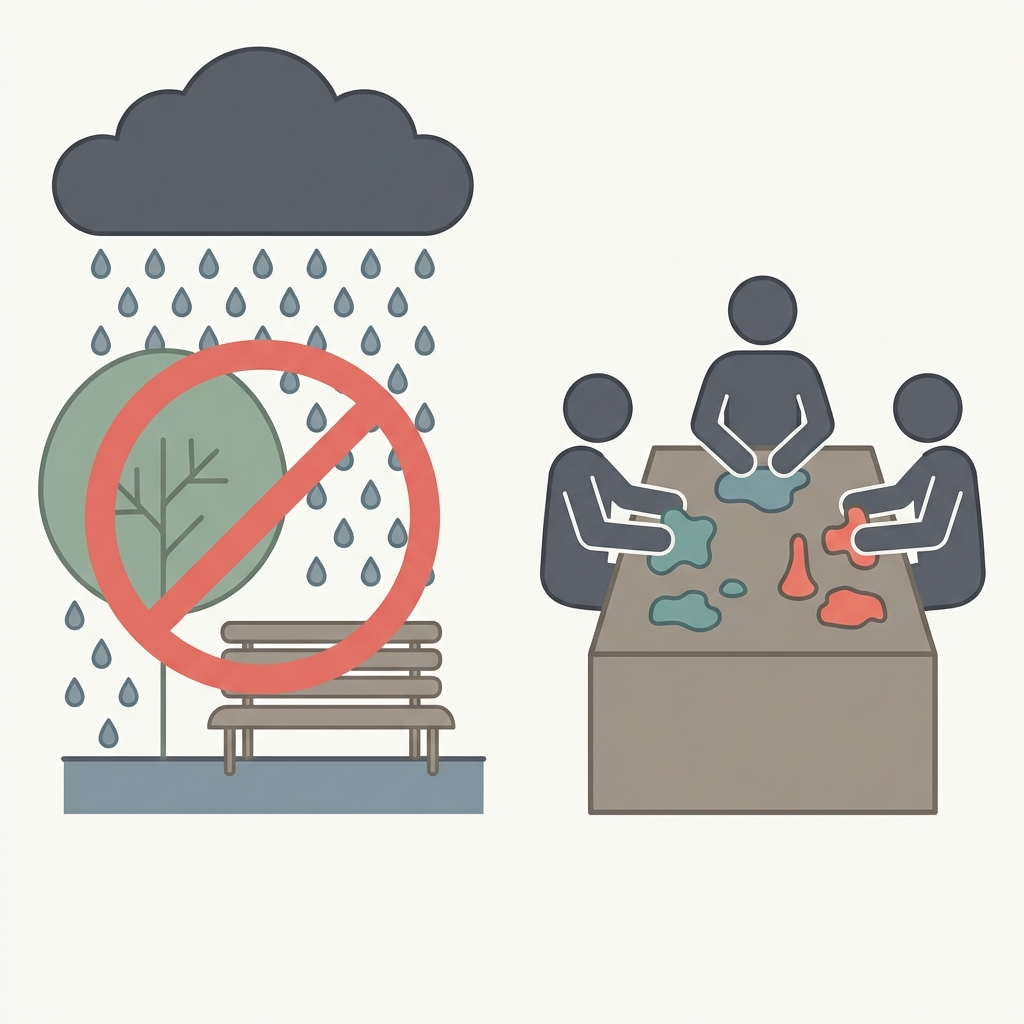
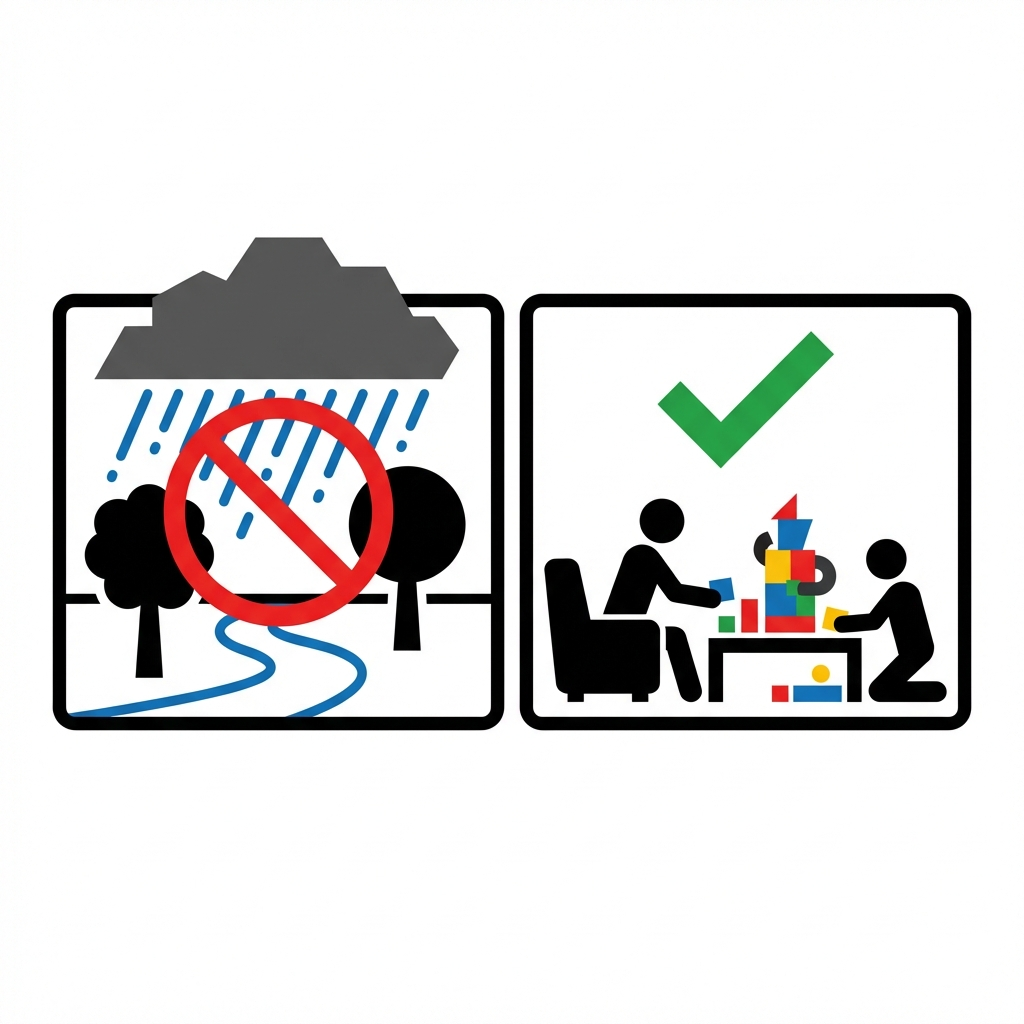
adj

diff --git a/index.html b/index.html
@@ -41,6 +41,7 @@
               <div class="logos" style="gap: 2em;">
                 <img src="images/pucv-logo.png" alt="PUCV" style="height: 65px;">
                 <img src="images/AUT.jpg" alt="AUT University" style="height: 65px;">
+                <img src="images/micare-logo.jpg" alt="MICARE — Instituto Milenio para la Investigación del Cuidado" style="height: 65px;">
                 <img src="svg/mediafranca-light.svg" alt="MediaFranca" style="height: 65px;">
               </div>
             </div>
@@ -427,39 +428,52 @@
 
         <!-- 5.4 NLU front-end -->
         <section id="s5-nlu">
-          <h3>Análisis semántico <span>— fase COMPRENDER</span></h3>
+          <h3>Análisis semántico — fase COMPRENDER</h3>
           <div class="col-2">
             <div class="say">
-              <div class="speech" style="font-size: .85rem;">porque hoy día llueve, no iremos al parque pero nos
-                quedaremos trabajando con plastilina</div>
+              <div class="speech" style="font-size: .85rem;">porque hoy día llueve, no iremos al parque y nos
+                quedaremos trabajando con plastilina en la sala</div>
             </div>
-            <pre class="nlu"><code data-trim class="language-json">
-<span class="b">{</span>
-<span class="k">"speech_act"</span><span class="p">:</span> <span class="s">"Explicación_y_Declaración"</span><span class="p">,</span>
-<span class="k">"intent"</span><span class="p">:</span> <span class="s">"Explicar_cambio_de_plan"</span><span class="p">,</span>
-<span class="k">"frames"</span><span class="p">:</span> <span class="b">[</span>
-  <span class="b">{</span>
-    <span class="k">"frame_name"</span><span class="p">:</span> <span class="s">"Causation"</span><span class="p">,</span>
-    <span class="k">"roles"</span><span class="p">:</span> <span class="b">{</span>
-      <span class="k">"Cause"</span><span class="p">:</span> <span class="s">"hoy día llueve"</span><span class="p">,</span>
-      <span class="k">"Effect"</span><span class="p">:</span> <span class="s">"no iremos al parque"</span>
-    <span class="b">}</span>
-  <span class="b">}</span><span class="p">,</span>
-  <span class="b">{</span>
-    <span class="k">"frame_name"</span><span class="p">:</span> <span class="s">"Performing_activity"</span><span class="p">,</span>
-    <span class="k">"roles"</span><span class="p">:</span> <span class="b">{</span>
-      <span class="k">"Agent"</span><span class="p">:</span> <span class="s">"YO_Y_OTROS"</span><span class="p">,</span>
-      <span class="k">"Activity"</span><span class="p">:</span> <span class="s">"Trabajar_con_plastilina"</span>
-    <span class="b">}</span>
-  <span class="b">}</span>
-<span class="b">]</span><span class="p">,</span>
-<span class="k">"visual_guidelines"</span><span class="p">:</span> <span class="b">{</span>
-  <span class="k">"focus_actor"</span><span class="p">:</span> <span class="s">"YO_Y_OTROS"</span><span class="p">,</span>
-  <span class="k">"action_core"</span><span class="p">:</span> <span class="s">"NO_IR_A_LUGAR"</span><span class="p">,</span>
-  <span class="k">"context"</span><span class="p">:</span> <span class="s">"LLUVIA_EXTERIOR"</span>
-<span class="b">}</span>
-<span class="b">}</span></code>
-      </pre>
+            <pre class="nlu" style="font-size: .55rem; text-align: left; line-height: 1.45;"><code data-trim data-noescape class="language-json">{
+  "utterance": "porque hoy día llueve, no iremos al parque...",
+  "speech_act": "Explicación de Decisión y Planificación",
+  "intent": "Informar sobre un cambio de planes...",
+  "frames": [
+    { "frame": "Cause_to_effect_relation",
+      "lexical_unit": "porque",
+      "Cause":  { "ref": "EVENTO_LLUVIA_HOY",
+                  "surface": "hoy día llueve" },
+      "Effect": { "ref": "EFECTO_CAMBIO_DE_PLAN",
+                  "surface": "no iremos al parque..." }
+    },
+    { "frame": "Self_motion",
+      "lexical_unit": "iremos",
+      "Destination": { "ref": "LUGAR_PARQUE" },
+      "Negation":    { "ref": "MODALIDAD_NEGACION" }
+    },
+    { "frame": "Performing_actions",
+      "lexical_unit": "trabajando",
+      "Agent":      { "ref": "ACTOR_NOSOTROS" },
+      "Action":     { "surface": "trabajando con plastilina" },
+      "Location":   { "ref": "LUGAR_SALA" }
+    }
+  ],
+  "nsm_explications": {
+    "LLUVIA_HOY": "Pienso: hoy algo como agua cae de arriba.",
+    "CAMBIO_DE_PLANES": "Pienso: antes nosotros queríamos
+      movernos al parque. Ahora no haremos esto.",
+    "ACTIVIDAD_ALTERNATIVA": "Pienso: nosotros estaremos
+      en la sala. Haremos algo con plastilina."
+  },
+  "visual_guidelines": {
+    "focus_actor":  "Un grupo de personas (nosotros)",
+    "action_core":  "Cancelar salida, sustituir por
+                     actividad hogareña",
+    "object_core":  "Plastilina, parque",
+    "context":      "Día lluvioso, dentro de la sala",
+    "temporal":     "Hoy"
+  }
+}</code></pre>
           </div>
           <aside class="notes">
             El profesional puede verificar si la intención fue correctamente
@@ -503,7 +517,7 @@
           <div style="display:grid;grid-template-columns:50% 50%;height:500px;gap:1rem;">
             <!-- IZQUIERDA: código -->
             <div style="overflow:auto;font-size:.55em;line-height:1.2;">
-              <pre style="font-size:85%;white-space:pre;margin-left:2em;">
+              <pre style="font-size:111%;white-space:pre;margin-left:3em;">
         <code data-role="svg-source" class="language-xml" data-line-numbers></code>
         </pre>
             </div>
@@ -618,7 +632,7 @@
                 <li><a href="https://github.com/mediafranca/nlu-schema"><strong>nlu-schema</strong></a> — esquema NLU
                 </li>
                 <li><a href="https://github.com/mediafranca/manifesto"><strong>manifiesto</strong></a> — principios de
-                  diseño · <a href="https://herbertspencer.net/manifiesto">es</a></li>
+                  diseño · <a href="https://herbertspencer.net/2025/manifiesto">es</a></li>
               </ol>
               <p><strong>Herbert Spencer González</strong> · [email redacted]</p>
               <p><a href="https://herbertspencer.net/pictos-chile">herbertspencer.net/pictos-chile</a></p>

diff --git a/docs/index.html b/docs/index.html
@@ -429,39 +429,52 @@
 
         <!-- 5.4 NLU front-end -->
         <section id="s5-nlu">
-          <h3>Análisis semántico <span>— fase COMPRENDER</span></h3>
+          <h3>Análisis semántico — fase COMPRENDER</h3>
           <div class="col-2">
             <div class="say">
-              <div class="speech" style="font-size: .85rem;">porque hoy día llueve, no iremos al parque pero nos
-                quedaremos trabajando con plastilina</div>
+              <div class="speech" style="font-size: .85rem;">porque hoy día llueve, no iremos al parque y nos
+                quedaremos trabajando con plastilina en la sala</div>
             </div>
-            <pre class="nlu"><code data-trim class="language-json">
-<span class="b">{</span>
-<span class="k">"speech_act"</span><span class="p">:</span> <span class="s">"Explicación_y_Declaración"</span><span class="p">,</span>
-<span class="k">"intent"</span><span class="p">:</span> <span class="s">"Explicar_cambio_de_plan"</span><span class="p">,</span>
-<span class="k">"frames"</span><span class="p">:</span> <span class="b">[</span>
-  <span class="b">{</span>
-    <span class="k">"frame_name"</span><span class="p">:</span> <span class="s">"Causation"</span><span class="p">,</span>
-    <span class="k">"roles"</span><span class="p">:</span> <span class="b">{</span>
-      <span class="k">"Cause"</span><span class="p">:</span> <span class="s">"hoy día llueve"</span><span class="p">,</span>
-      <span class="k">"Effect"</span><span class="p">:</span> <span class="s">"no iremos al parque"</span>
-    <span class="b">}</span>
-  <span class="b">}</span><span class="p">,</span>
-  <span class="b">{</span>
-    <span class="k">"frame_name"</span><span class="p">:</span> <span class="s">"Performing_activity"</span><span class="p">,</span>
-    <span class="k">"roles"</span><span class="p">:</span> <span class="b">{</span>
-      <span class="k">"Agent"</span><span class="p">:</span> <span class="s">"YO_Y_OTROS"</span><span class="p">,</span>
-      <span class="k">"Activity"</span><span class="p">:</span> <span class="s">"Trabajar_con_plastilina"</span>
-    <span class="b">}</span>
-  <span class="b">}</span>
-<span class="b">]</span><span class="p">,</span>
-<span class="k">"visual_guidelines"</span><span class="p">:</span> <span class="b">{</span>
-  <span class="k">"focus_actor"</span><span class="p">:</span> <span class="s">"YO_Y_OTROS"</span><span class="p">,</span>
-  <span class="k">"action_core"</span><span class="p">:</span> <span class="s">"NO_IR_A_LUGAR"</span><span class="p">,</span>
-  <span class="k">"context"</span><span class="p">:</span> <span class="s">"LLUVIA_EXTERIOR"</span>
-<span class="b">}</span>
-<span class="b">}</span></code>
-      </pre>
+            <pre class="nlu" style="font-size: .55rem; text-align: left; line-height: 1.45;"><code data-trim data-noescape class="language-json">{
+  "utterance": "porque hoy día llueve, no iremos al parque...",
+  "speech_act": "Explicación de Decisión y Planificación",
+  "intent": "Informar sobre un cambio de planes...",
+  "frames": [
+    { "frame": "Cause_to_effect_relation",
+      "lexical_unit": "porque",
+      "Cause":  { "ref": "EVENTO_LLUVIA_HOY",
+                  "surface": "hoy día llueve" },
+      "Effect": { "ref": "EFECTO_CAMBIO_DE_PLAN",
+                  "surface": "no iremos al parque..." }
+    },
+    { "frame": "Self_motion",
+      "lexical_unit": "iremos",
+      "Destination": { "ref": "LUGAR_PARQUE" },
+      "Negation":    { "ref": "MODALIDAD_NEGACION" }
+    },
+    { "frame": "Performing_actions",
+      "lexical_unit": "trabajando",
+      "Agent":      { "ref": "ACTOR_NOSOTROS" },
+      "Action":     { "surface": "trabajando con plastilina" },
+      "Location":   { "ref": "LUGAR_SALA" }
+    }
+  ],
+  "nsm_explications": {
+    "LLUVIA_HOY": "Pienso: hoy algo como agua cae de arriba.",
+    "CAMBIO_DE_PLANES": "Pienso: antes nosotros queríamos
+      movernos al parque. Ahora no haremos esto.",
+    "ACTIVIDAD_ALTERNATIVA": "Pienso: nosotros estaremos
+      en la sala. Haremos algo con plastilina."
+  },
+  "visual_guidelines": {
+    "focus_actor":  "Un grupo de personas (nosotros)",
+    "action_core":  "Cancelar salida, sustituir por
+                     actividad hogareña",
+    "object_core":  "Plastilina, parque",
+    "context":      "Día lluvioso, dentro de la sala",
+    "temporal":     "Hoy"
+  }
+}</code></pre>
           </div>
           <aside class="notes">
             El profesional puede verificar si la intención fue correctamente